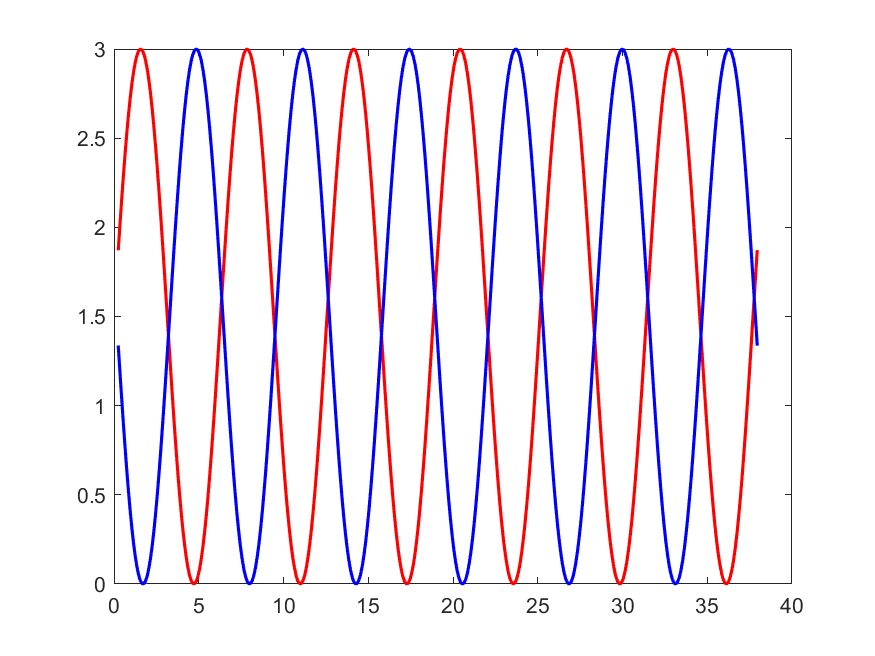
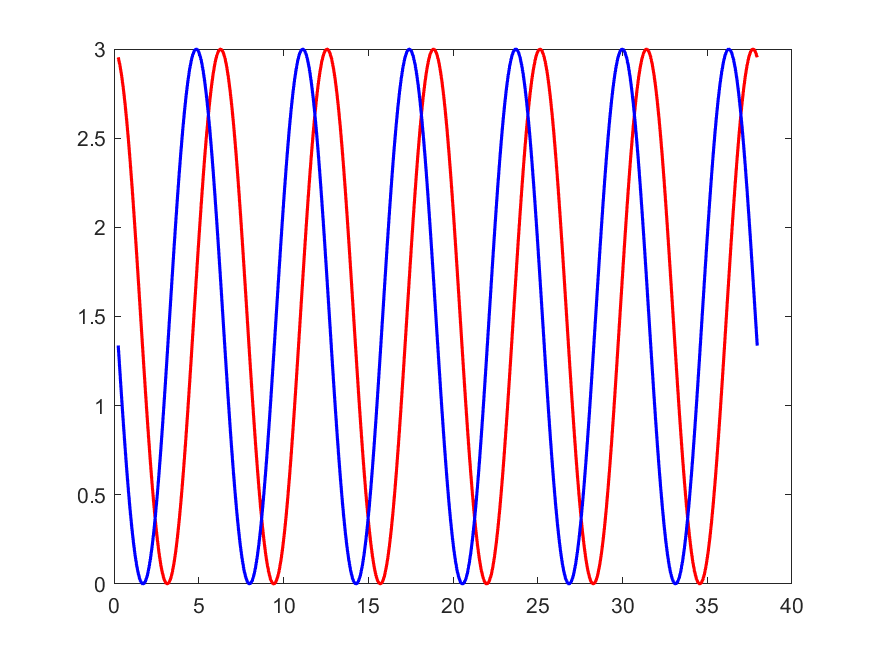
change

Changed region(s): [[0.1234, 0.061, 0.864, 0.8841], [0.8331, 0.1829, 0.864, 0.4268], [0.8331, 0.061, 0.864, 0.1524]]

diff --git a/Layup-sin-cross.py b/Layup-sin-cross.py
@@ -167,8 +167,7 @@ for y in np.arange(spacing_y/2,width,spacing_y):
 	FaceTensile.append(InstancePlate.faces.findAt(((length,y,height_plate/2),),))
 SetTensile=AssemblyPlate.Set(faces=FaceTensile, name='Set-Tensile')
 region = AssemblyPlate.sets['Set-Fixed']
-myModel.XsymmBC(name='BC-Fixed', createStepName='Initial', 
-        region=region, localCsys=None)
+myModel.XsymmBC(name='BC-Fixed', createStepName='Initial',region=region, localCsys=None)
 region = AssemblyPlate.sets['Set-Tensile']
 mdb.models['Model-1'].DisplacementBC(name='BC-Tensile', 
         createStepName='Step-1', region=region, u1=xDis, u2=UNSET, u3=0, 

diff --git a/pythonTest.py b/pythonTest.py
@@ -77,5 +77,16 @@ Ply[0][2]=1
 print(Ply[0])
 '''
 # '''
-
+import matplotlib.pyplot as plt
+# Init variables
+length = 38.0
+width = 12.5
+height_plate = 3.0
+spacing_y=0.5
+spacing_x = 0.5
+num_DatumPlanes_y = int((width /spacing_y) -1.0)
+num_DatumPlanes_x = int((length/spacing_x) -1.0)
+num_plies = 11
+# 
+xarray=
 # '''
